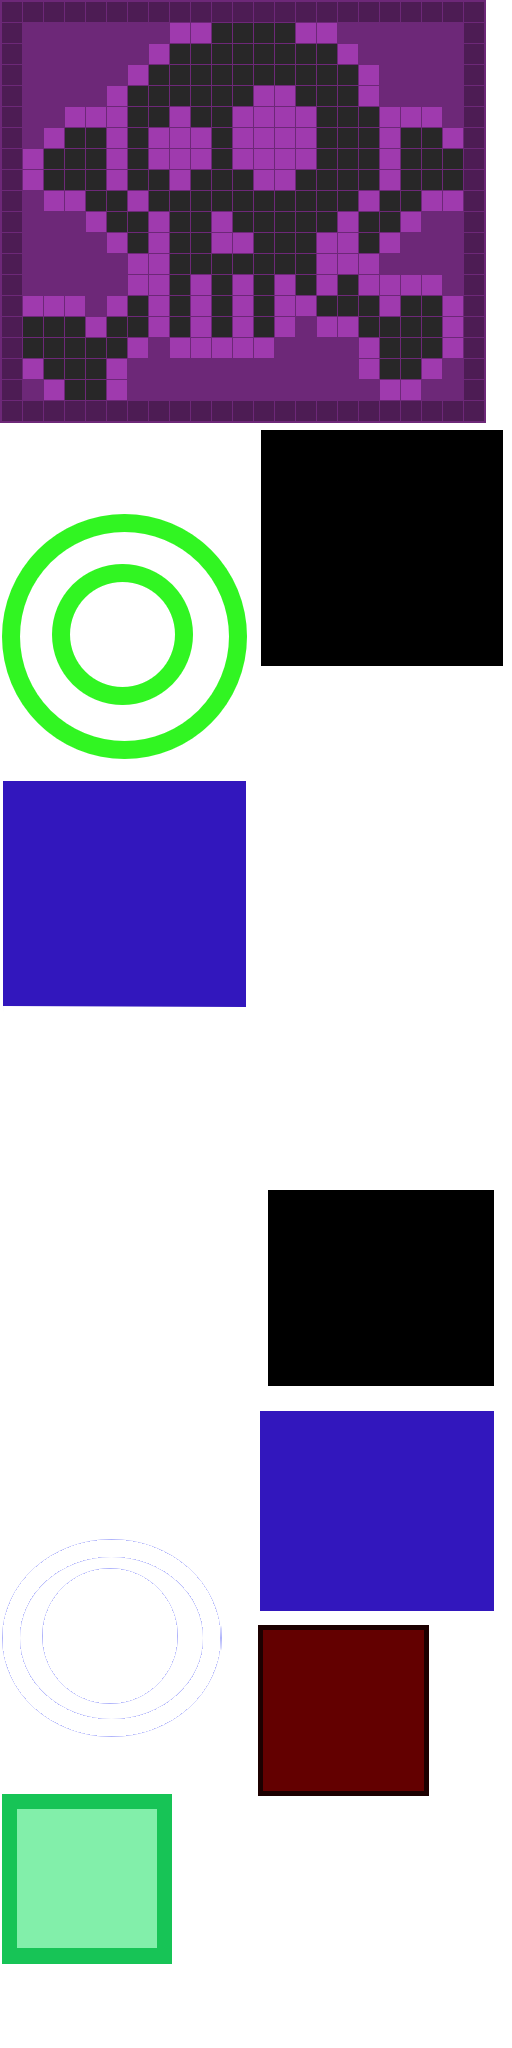
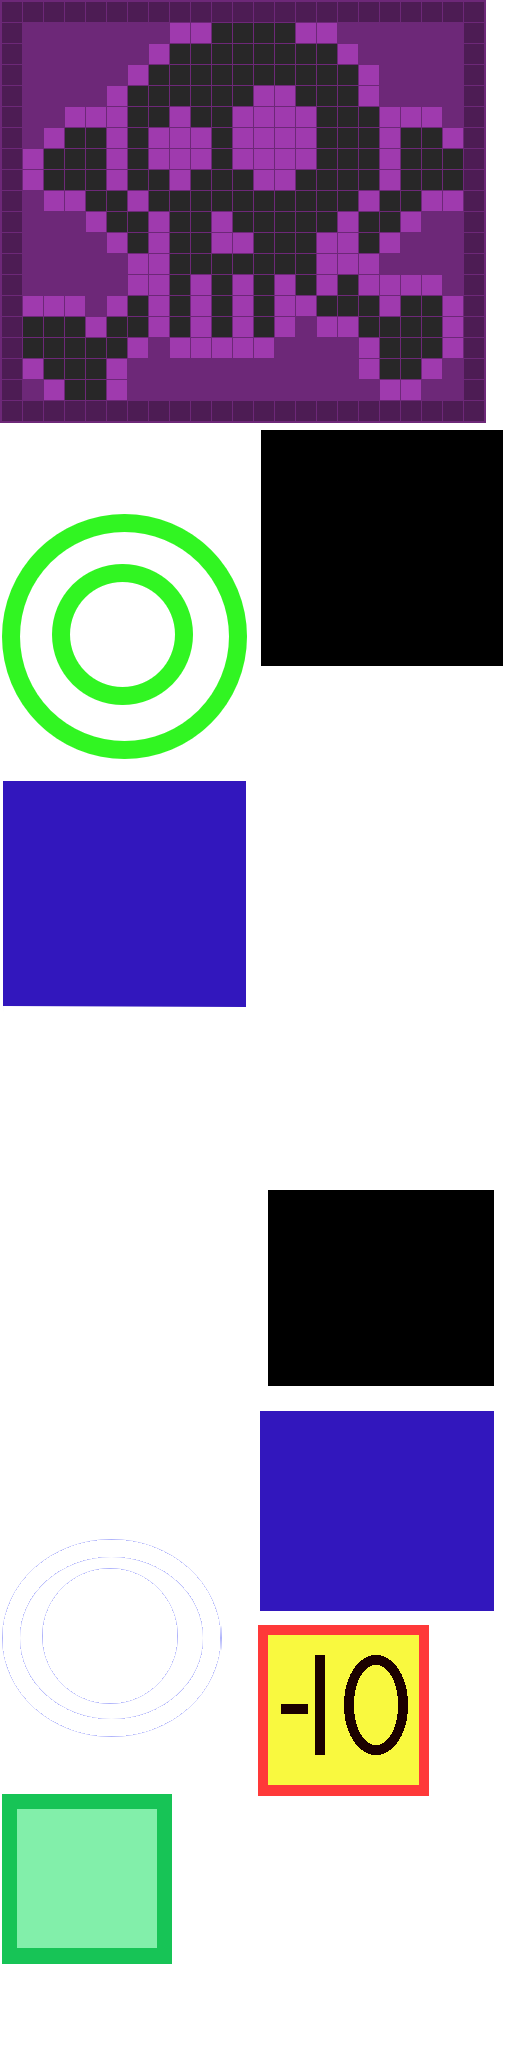
oops pt.2

Changed region(s): [[0.5, 0.7812, 0.8438, 0.875]]

diff --git a/index.html b/index.html
@@ -45,7 +45,7 @@
 			</div>
 		</div>
 			<div class="col-md-1">
-				<p> Version (0.623.80) </p>
+				<p> Version (0.634.87) </p>
 			</div>
 			
 	</div>
@@ -85,14 +85,15 @@
 				<a href="page 2.html" target ="PastUpdatesPage" style="color:black"> Updates </a>
 			</h2>
 			
-					  <strong>04/14(0.623.80):</strong> Pushed out the first update for Blockz, check out the future updates section for more information. 
+					  <strong>04/21(0.634.87):</strong> Released another blockz update, adding a new block and some quality of life additions. Gheck out the future updates section for more information.
+				</Br> <strong>04/14(0.623.80):</strong> Pushed out the first update for Blockz, check out the future updates section for more information. 
 				</Br> <strong>04/07(0.612.76):</strong> begun work on optimizations for games and added a detailed list of what the future holds for QRI Games in the Future Updates section.
 				</Br> <strong>03/25(0.610.60):</strong> Added the first iteration of the game search function. 
 				</Br> <strong>03/17(0.600.45):</strong> Updated Goul Shooters, bug fixes, minor improvements, and a new weapon, Grenades!
 				</Br> <strong>03/10(0.587.40):</strong> Updated Goul Shooters, go check it out! 
 				</Br> <strong>03/04(0.579.40):</strong> Fixed bug on SticksandStones level 3 that I didn't notice, Sorry
 				</Br> <strong>03/03(0.573.38):</strong> Added asteroids to Galactic Wars go check out their mechanics in the Future Updates section.
-				</Br> <strong>02/24(0.563.34):</Strong> Added a third level to SticksandStones, also started working on back door code for new updates coming to older games. Check Future Updates for more information.
+				
 				
 				
 				
@@ -125,7 +126,7 @@
 				<ul>
 						Future updates:
 					 
-					<li>Blockz- with the release of the first content patch for Blockz I added a new block that when hit would delete any death blocks on screen giving the game a bit more depth as well as boosting your score slightly. This will be used to also push forward into making more power-up blocks for other gameplay improvements coming in the days to follow.
+					<li>Blockz- with the release of the second content patch for Blockz, I added a new block that when hit would subtract 10 points from your score and could be activated twice for a total of -20 points. I also made the regular block have different colors depending on how many shots it takes to destroy them, the darker they are the more hits they can take.
 					 <li> Game #5 - It's been a long while since I've worked on releasing a new game, but no more. I'm thinking that Game #5 is going to be a Maze game where your goal is to solve puzzles and  avoid enemies. 
 					 <li>Website formatting and design improvements where necessary.
 				</ul>

diff --git a/Blockz/scripts/c3runtime.js b/Blockz/scripts/c3runtime.js
@@ -2978,21 +2978,19 @@ wi.GetY()));wi.SetBboxChanged()}}GetPropertyValueByIndex(index){switch(index){ca
 		C3.Plugins.Sprite.Cnds.IsOverlapping,
 		C3.Plugins.Sprite.Acts.SetX,
 		C3.Plugins.Sprite.Acts.Destroy,
-		C3.Plugins.Keyboard.Cnds.IsKeyDown,
-		C3.Plugins.Touch.Cnds.OnHoldGesture,
-		C3.Plugins.Sprite.Acts.Spawn,
+		C3.Plugins.Sprite.Cnds.OnCollision,
 		C3.Plugins.Keyboard.Cnds.OnKeyReleased,
 		C3.Plugins.Touch.Cnds.OnTapGesture,
 		C3.Plugins.Touch.Cnds.OnTouchEnd,
+		C3.Plugins.Sprite.Acts.Spawn,
 		C3.Plugins.System.Acts.SubVar,
 		C3.Plugins.Keyboard.Cnds.OnKey,
 		C3.Plugins.Touch.Cnds.OnTapGestureObject,
-		C3.Plugins.Sprite.Cnds.OnCollision,
 		C3.Plugins.System.Acts.AddVar,
 		C3.Plugins.Sprite.Acts.SubInstanceVar,
 		C3.Plugins.Sprite.Cnds.CompareInstanceVar,
-		C3.Behaviors.Bullet.Acts.SetSpeed,
 		C3.Plugins.Sprite.Acts.SetDefaultColor,
+		C3.Behaviors.Bullet.Acts.SetSpeed,
 		C3.Plugins.Text.Acts.SetVisible,
 		C3.Plugins.Sprite.Exps.Count,
 		C3.Plugins.System.Acts.GoToLayout,
@@ -3059,6 +3057,8 @@ wi.GetY()));wi.SetBboxChanged()}}GetPropertyValueByIndex(index){switch(index){ca
 		{Text6: 0},
 		{Sprite4: 0},
 		{aftershot: 0},
+		{Ncord: 0},
+		{use: 0},
 		{negscoreblock10: 0},
 		{Sprite5: 0},
 		{Gcord: 0},
@@ -3206,13 +3206,22 @@ wi.GetY()));wi.SetBboxChanged()}}GetPropertyValueByIndex(index){switch(index){ca
 		},
 		p => {
 			const f0 = p._GetNode(0).GetBoundMethod();
+			return () => f0(10, 25);
+		},
+		p => {
+			const f0 = p._GetNode(0).GetBoundMethod();
 			return () => Math.floor(f0(30, 450));
 		},
 		() => 1,
+		() => 3,
+		() => -168780186308607,
+		() => -225133596771327,
+		() => -281492157629439,
 		() => "game",
 		() => 400,
 		() => -281474976711679,
 		() => 10,
+		() => -84390940403711,
 		p => {
 			const n0 = p._GetNode(0);
 			return () => n0.ExpObject();

diff --git a/page 2.html b/page 2.html
@@ -37,6 +37,7 @@
 		</div>
 		<div class="col-md-8" style = "border: 4px double Black;">
 			<h5><strong> UPDATE HISTORY </strong> </h5>
+				<Li/> 04/21(0.634.87): Released another blockz update, adding a new block and some quality of life additions. Gheck out the future updates section for more information.
 				<li/> 04/14(0.623.80): Pushed out the first update for Blockz, check out the future updates section for more information. 
 				<Li/> 04/07(0.612.76): begun work on optimizations for games and added a detailed list of what the future holds for QRI Games in the Future Updates section.
 			    <Li/> 03/25(0.610.60): Added the first iteration of the game search function. 

diff --git a/page1.html b/page1.html
@@ -13,7 +13,7 @@
     <meta http-equiv="X-UA-Compatible" content="IE=edge">
     <meta name="viewport" content="width=device-width, initial-scale=1">
 
-    <title>QRI Page 1</title>
+    <title>QRI Game Page </title>
 
     <meta name="description" content="Source code generated using layoutit.com">
     <meta name="author" content="LayoutIt!">
